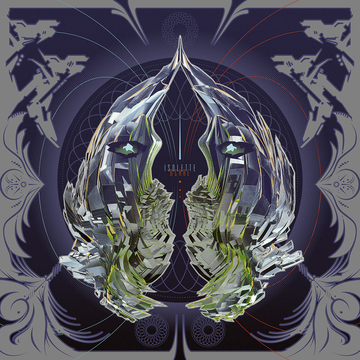
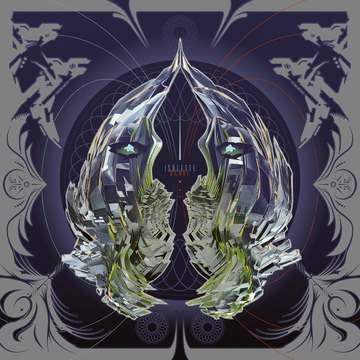
Updated music art with 2x-friendly srcset.

diff --git a/music.html b/music.html
@@ -4,7 +4,12 @@ title: Music
 <h1 class="album-title">Isolette</h1>
 <h3 class="album-title">2015, Shipwrec</h3>
 <div class="album">
-  <img src="/assets/isolette.png" class="alignleft"/>
+  <img srcset="/assets/isolette.png 360w,
+    /assets/isolette@2x.png 720w"
+    sizes="360px"
+    src="/assets/isolette.png"
+    alt=""
+    class="alignleft"/>
   <iframe class="bc-player" src="https://bandcamp.com/EmbeddedPlayer/album=3323002998/size=large/bgcol=ffffff/linkcol=ea5727/artwork=none/transparent=true/" seamless><a href="http://bandcamp.ochremusic.com/album/isolette">Isolette by Ochre</a></iframe>
   <p>Vinyl available from these fine retailers: <a href="https://clone.nl/item33757.html">Clone (NL)</a>, <a href="http://www.juno.co.uk/products/ochre-isolette/559229-01/">Juno (UK)</a>, <a href="http://www.redeyerecords.co.uk/vinyl/59466-ship026-ochre-isolette">Redeye (UK)</a>, <a href="http://www.decks.de/t/ochre-isolette/c4j-qj">Decks (DE)</a>, <a href="http://www.deejay.de/SHIP026_-_Ochre_-_Isolette_-_Vinyl__169954">Deejay (DE)</a></p>
   <p>Also available as an artwork print bundle directly from me <a href="http://bandcamp.ochremusic.com/merch/isolette-ltd-heavyweight-matte-print-digital-album">via Bandcamp</a>.</p>
@@ -13,7 +18,12 @@ title: Music
 <h1 class="album-title">National Ignition</h1>
 <h3 class="album-title">2013, Aura Materia</h3>
 <div class="album">
-  <img src="/assets/ignition.png" class="alignleft"/>
+  <img srcset="/assets/ignition.png 360w,
+    /assets/ignition@2x.png 720w"
+    sizes="360px"
+    src="/assets/ignition.png"
+    alt=""
+    class="alignleft"/>
   <iframe class="bc-player" src="https://bandcamp.com/EmbeddedPlayer/album=894836221/size=large/bgcol=ffffff/linkcol=ea5727/artwork=none/transparent=true/" seamless><a href="http://bandcamp.ochremusic.com/album/national-ignition">National Ignition by Ochre</a></iframe>
   <p>Also available as an artwork print bundle directly from me <a href="http://bandcamp.ochremusic.com/merch/national-ignition-ltd-heavyweight-matte-print-digital-album">via Bandcamp</a>.</p>
 </div>
@@ -21,28 +31,48 @@ title: Music
 <h1 class="album-title">Like Dust of the Balance</h1>
 <h3 class="album-title">2009, Benbecula</h3>
 <div class="album">
-  <img src="/assets/dust.png" class="alignleft"/>
+  <img srcset="/assets/dust.png 360w,
+    /assets/dust@2x.png 720w"
+    sizes="360px"
+    src="/assets/dust.png"
+    alt=""
+    class="alignleft"/>
   <iframe class="bc-player" src="https://bandcamp.com/EmbeddedPlayer/album=2371710032/size=large/bgcol=ffffff/linkcol=ea5727/artwork=none/transparent=true/" seamless><a href="http://bandcamp.ochremusic.com/album/like-dust-of-the-balance">Like Dust of the Balance by Ochre</a></iframe>
 </div>
 
 <h1 class="album-title">Lemodie</h1>
 <h3 class="album-title">2006, Benbecula</h3>
 <div class="album">
-  <img src="/assets/lemodie.png" class="alignleft"/>
+  <img srcset="/assets/lemodie.png 360w,
+    /assets/lemodie@2x.png 720w"
+    sizes="360px"
+    src="/assets/lemodie.png"
+    alt=""
+    class="alignleft"/>
   <iframe class="bc-player" src="https://bandcamp.com/EmbeddedPlayer/album=500978200/size=large/bgcol=ffffff/linkcol=ea5727/artwork=none/transparent=true/" seamless><a href="http://bandcamp.ochremusic.com/album/lemodie">Lemodie by Ochre</a></iframe>
 </div>
 
 <h1 class="album-title">A Midsummer Nice Dream</h1>
 <h3 class="album-title">2004, Toytronic</h3>
 <div class="album">
-  <img src="/assets/midsummer.png" class="alignleft"/>
+  <img srcset="/assets/midsummer.png 360w,
+    /assets/midsummer@2x.png 720w"
+    sizes="360px"
+    src="/assets/midsummer.png"
+    alt=""
+    class="alignleft"/>
   <iframe class="bc-player" src="https://bandcamp.com/EmbeddedPlayer/album=4213640468/size=large/bgcol=ffffff/linkcol=ea5727/artwork=none/transparent=true/" seamless><a href="http://bandcamp.ochremusic.com/album/a-midsummer-nice-dream">A Midsummer Nice Dream by Ochre</a></iframe>
 </div>
 
 <h1 class="album-title">Early Learning</h1>
 <h3 class="album-title">2011, Aura Materia</h3>
 <div class="album">
-  <img src="/assets/early.png" class="alignleft"/>
+  <img srcset="/assets/early.png 360w,
+    /assets/early@2x.png 720w"
+    sizes="360px"
+    src="/assets/early.png"
+    alt=""
+    class="alignleft"/>
   <iframe class="bc-player" src="https://bandcamp.com/EmbeddedPlayer/album=541409645/size=large/bgcol=ffffff/linkcol=ea5727/artwork=none/transparent=true/" seamless><a href="http://bandcamp.ochremusic.com/album/early-learning">Early Learning by Ochre</a></iframe>
   <p>Also available as an artwork print bundle directly from me <a href="http://bandcamp.ochremusic.com/merch/early-learning-ltd-heavyweight-matte-print-digital-album">via Bandcamp</a>.</p>
 </div>

diff --git a/_posts/2014-04-09-new-track-zome-city-out-now-on-lapsus.html b/_posts/2014-04-09-new-track-zome-city-out-now-on-lapsus.html
@@ -5,12 +5,10 @@ date: 2014-04-09 12:41:15.000000000 +01:00
 type: post
 published: true
 status: publish
-categories:
-- Music
-- Ochre
-tags: []
+categories: Ochre
+tags: [compilation]
 ---
-<p><a href="http://ochremusic.com/wp-content/uploads/2014/04/deu.jpg"><img src="{{ site.baseurl }}/assets/deu-300x225.jpg" alt="DEU" width="300" height="225" class="alignright size-medium wp-image-1879" /></a></p>
+<p><img src="{{ site.baseurl }}/assets/deu-300x225.jpg" alt="DEU" class="alignright" /></p>
 <p>A new track of mine, <em>Zome City</em>, was released yesterday on Barcelona's Lapsus Records, featuring on their <em>DEU</em> compilation, available on red vinyl and download. The compilation contains 17 tracks, from artists such as Plaid (vinyl-exclusive, sadly), Kelpe, Vector Lovers, and many more.</p>
 <p>I've been playing a tweaked version of Zome City in my latest live set (skip to 08:50 in the Utrecht recording posted a week or so ago if you're curious to compare the two), and find having a track on vinyl to be a satisfying closure to the production process---something I've really missed with the download releases, as it's been a while since my last vinyl release. Looking forward to seeing some more new music on vinyl this year!</p>
 <iframe style="border: 0; width: 100%; height: 120px;" src="https://bandcamp.com/EmbeddedPlayer/album=1188443186/size=large/bgcol=ffffff/linkcol=EA5727/tracklist=false/artwork=small/track=317150240/transparent=true/" seamless></iframe>

diff --git a/_posts/2007-05-15-track-notes-zelda-rmx.html b/_posts/2007-05-15-track-notes-zelda-rmx.html
@@ -5,7 +5,7 @@ date: 2007-05-15 17:14:42.000000000 +01:00
 type: post
 published: true
 status: publish
-categories: Ochre, Gear Talk
+categories: [Ochre, Gear Talk]
 tags: [remix, contest, nintendo, virus, synth]
 ---
 <p>This remix medley of mine, based on various themes taken from Nintendo's <em>Legend of Zelda</em> game franchise, seems to pop up now and then on the radar of various blogs, so I thought it might be useful to offer a few notes about the circumstances under which it was written. Although I'm a huge fan of the franchise, with many happy memories playing <a href="http://en.wikipedia.org/wiki/The_Legend_of_Zelda:_A_Link_to_the_Past"><em>Zelda: A Link to the Past</em></a> on my SNES, the remix didn't come about purely as a celebration of the game and its music; it was written for a 2003  competition (I think it was 2003 anyway -- my memory's pretty hazy) hosted by UK games mag Computer and Video Games, and sponsored by Nintendo and  Turnkey (a chain of UK music stores). The possibility of winning a Gamecube bundled with Zelda: Wind Waker, plus an <a href="http://www.access-music.de/products.php4?product=indigo2">Access Virus Indigo 2</a> VA synth, was too good to pass up. So over the course of one weekend I set about writing a little remix medley homage to the music of <a href="http://en.wikipedia.org/wiki/Hyrule">Hyrule</a>.</p>

diff --git a/_posts/2013-10-26-mutable-instruments-ambika.html b/_posts/2013-10-26-mutable-instruments-ambika.html
@@ -5,8 +5,8 @@ date: 2013-10-26 22:05:12.000000000 +01:00
 type: post
 published: true
 status: publish
-categories: Gear Talk
-tags: []
+categories: [Gear Talk]
+tags: [synth, diy]
 ---
-<p><a href="http://ochremusic.com/2013/10/26/mutable-instruments-ambika/dscf5174/" rel="attachment wp-att-1748"><img src="{{ site.baseurl }}/assets/DSCF5174.jpg" alt="A DIY 6-voice poly digital/analogue hybrid. Check out those voice cards underneath." width="2848" height="2136" class="size-full wp-image-1748" /></a> A DIY 6-voice poly digital/analogue hybrid. Checkout those voice cards underneath.[/caption]</p>
+<a href="{{ site.baseurl }}/assets/DSCF5174.jpg"><img src="{{ site.baseurl }}/assets/DSCF5174.jpg" alt="A DIY 6-voice poly digital/analogue hybrid. Check out those voice cards underneath." class="aligncenter" /></a>
 <p>Been enjoying this little project, spending the past week building a <a href="http://mutable-instruments.net/">Mutable Instruments</a> Ambika for a friend. Digital wavetable oscillators with 4-pole analogue filters, like the basic Shruthi, but with 6-voice polyphony. Brimming with character, and serious bang for buck if you can handle a soldering iron. Just don't get hung up about about the aliasing, as it's all part of the charm. Shall endeavour to get some sound online soon.</p>

diff --git a/_posts/2007-07-26-everglade-festival.html b/_posts/2007-07-26-everglade-festival.html
@@ -5,7 +5,7 @@ date: 2007-07-26 11:33:56.000000000 +01:00
 type: post
 published: true
 status: publish
-categories: Ochre, Live
+categories: [Ochre, Live]
 tags: [gig, festival]
 ---
 <p>Phew, what a day last Friday was. After taking five and a half hours to travel a route that should have taken no longer than about an hour and a half, I finally made it to Glade, just in time to play my set. So much for the three hour notice! Many were held up outside the venue thanks to a severely flooded road/roundabout and the subsequent rescue operation to fish unfortunate children from the local primary school. We almost literally had to push the boat out when it came to just getting to Glade, as my trusty Polo sailed through eighteen inches of floodwater on many occasions, but I made it to gate three eventually and upon parking in a farm, I hurriedly set off to the ID Spiral Stage to play my set.</p>

diff --git a/_posts/2008-06-03-ed-chamberlain-remix-out-now.html b/_posts/2008-06-03-ed-chamberlain-remix-out-now.html
@@ -6,7 +6,7 @@ type: post
 published: true
 status: publish
 categories: Ochre
-tags: [remix, vinyl]
+tags: [remix, ep, vinyl]
 ---
 <p><img src="{{ site.baseurl }}/assets/base005.png" alt="Mixxy EP1" title="Mixxy EP1" width="300" height="300" class="aligncenter size-full wp-image-398" /></p>
 <p>Ed Chamberlain's <em>Mixxy EP1</em> has now been released on <a href="http://baselogic.co.uk/">Baselogic Records</a>, featuring my remix of 'Styge' (still up for streaming on <a href="http://www.myspace.com/ochre">MySpace</a>). The EP is available to buy on 12" from <a href="http://warpmart.com/item/Ed%20Chamberlain/Mixxy%2C%20Surgeon%2C%20Vent%2C%20Ochre%20remixes/3786">Warpmart</a> and <a href="http://www.juno.co.uk/ppps/products/315473-01.htm">Juno</a>, with more stores to follow. If you can't find it at your local store, please ask them to order it in.</p>

diff --git a/_posts/2009-05-18-last-orders-for-mastering-cds12s-from-the-shop.html b/_posts/2009-05-18-last-orders-for-mastering-cds12s-from-the-shop.html
@@ -5,7 +5,7 @@ date: 2009-05-18 12:42:42.000000000 +01:00
 type: post
 published: true
 status: publish
-categories: Ochre, Mastering
+categories: [Ochre, Mastering]
 tags: [vinyl, cd, merch]
 ---
 <p>Just a final reminder that I'll be closing the mastering service and shop before the end of the week, until August, as I'll be off to concentrate on my thesis work over the summer. I've got 7 Midsummer Nice Dream CDs left in stock, which would be nice to clear; considerably more vinyl is available, so don't worry about that -- plenty left. If you need any odd tracks mastered, please arrange to get them to me by Wednesday at the latest, just so I've got a couple of days to work on them and get them back to you.</p>

diff --git a/_posts/2016-07-25-next-gig-northern-electric-festival-newcastle.html b/_posts/2016-07-25-next-gig-northern-electric-festival-newcastle.html
@@ -5,8 +5,8 @@ date: 2016-07-25 12:14:22.000000000 +01:00
 type: post
 published: true
 status: publish
-categories: Ochre
-tags: [live, gigs]
+categories: [Ochre, Live]
+tags: [live, gig, festival]
 ---
 <p><a href="http://ochremusic.com/wp-content/uploads/2016/07/Banner3.jpg"><img src="{{ site.baseurl }}/assets/Banner3.jpg" alt="Northern Electric" width="100%" class="aligncenter size-full wp-image-2373" /></a></p>
 <p><a href="http://www.seetickets.com/event/northern-electric-festival/the-ouseburn-valley/979860">Tickets here!</a> You can also buy tickets from participating venues.</p>

diff --git a/_layouts/blog.html b/_layouts/blog.html
@@ -28,7 +28,7 @@
             {% assign categories = page.categories %}
           {% endif %}
           {% for category in categories %}
-            <a href="{{ site.baseurl }}/categories/#{{ category | slugify }}">{{ category | capitalize }}</a>{% unless forloop.last %},&nbsp{% endunless %}
+            <a href="{{ site.baseurl }}/categories/#{{ category | slugify }}">{{ category }}</a>{% unless forloop.last %},&nbsp{% endunless %}
           {% endfor %}
         </span>
         {% endif %}

diff --git a/_posts/2008-03-17-bloc-live-set-excerpt-on-bbc-radio-1-last-night.html b/_posts/2008-03-17-bloc-live-set-excerpt-on-bbc-radio-1-last-night.html
@@ -5,7 +5,7 @@ date: 2008-03-17 21:42:35.000000000 +00:00
 type: post
 published: true
 status: publish
-categories: Ochre, Live
+categories: [Ochre, Live]
 tags: [radio, gig, bloc, festival]
 ---
 <p>BBC Radio 1 DJ Rob Da Bank kindly aired a small excerpt from the weekend's live set at <a href="http://www.blocweekend.com/">Bloc</a>, spinning 'Yugen' at the end of last night's show. Visit the BBC site to <a href="http://www.bbc.co.uk/radio1/robdabank/">listen again</a>.</p>

diff --git a/_posts/2007-08-18-recording-live-prototype-arhus-denmark-19th-jan-2007.html b/_posts/2007-08-18-recording-live-prototype-arhus-denmark-19th-jan-2007.html
@@ -5,7 +5,7 @@ date: 2007-08-18 14:49:39.000000000 +01:00
 type: post
 published: true
 status: publish
-categories: Ochre, Live
+categories: [Ochre, Live]
 tags: [gig]
 ---
 <p>Here's another live set provided courtesy of the kind folks at <a href="http://www.musikcafeen.dk">Musikcafeen</a>, recorded at the start of the year in Århus, Denmark, for the Prototype event. Also playing on the night was the wonderful fiddle-thrashing Frog Pocket.</p>

diff --git a/categories.html b/categories.html
@@ -5,7 +5,7 @@ title: Categories
 <h2>Archive by Post Category</h2>
 {% for category in site.categories %}
   {% capture category_name %}{{ category | first }}{% endcapture %}
-  <h3 id="{{ category_name | slugify }}">{{ category_name | capitalize }}</h3>
+  <h3 id="{{ category_name | slugify }}">{{ category_name }}</h3>
   <p>
     {% for post in site.categories[category_name] %}
       {% if post.title != "" %}
